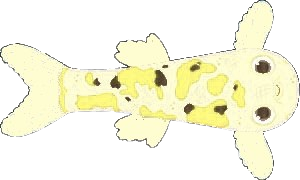
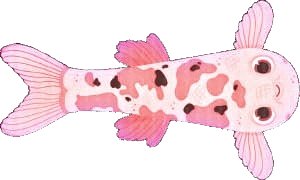
added skins

diff --git a/main.js b/main.js
@@ -70,7 +70,7 @@ function setGlobals() {
     MENU: {
       opacity: 1,
     },
-    playerSkin: localStorage.skin ?? Math.ceil(Math.random() * 11),
+    playerSkin: localStorage.skin ?? Math.ceil(Math.random() * 26),
     state: "menu",
     firstLoop: true,
     bufferLoop: true,
@@ -554,6 +554,21 @@ function loadAssets(cb) {
     { name: "skin-9", src: "assets/skins/skin9.png" },
     { name: "skin-10", src: "assets/skins/skin10.png" },
     { name: "skin-11", src: "assets/skins/skin11.png" },
+    { name: "skin-12", src: "assets/skins/skin12.png" },
+    { name: "skin-13", src: "assets/skins/skin13.png" },
+    { name: "skin-14", src: "assets/skins/skin14.png" },
+    { name: "skin-15", src: "assets/skins/skin15.png" },
+    { name: "skin-16", src: "assets/skins/skin16.png" },
+    { name: "skin-17", src: "assets/skins/skin17.png" },
+    { name: "skin-18", src: "assets/skins/skin18.png" },
+    { name: "skin-19", src: "assets/skins/skin19.png" },
+    { name: "skin-20", src: "assets/skins/skin20.png" },
+    { name: "skin-21", src: "assets/skins/skin21.png" },
+    { name: "skin-22", src: "assets/skins/skin22.png" },
+    { name: "skin-23", src: "assets/skins/skin23.png" },
+    { name: "skin-24", src: "assets/skins/skin24.png" },
+    { name: "skin-25", src: "assets/skins/skin25.png" },
+    { name: "skin-26", src: "assets/skins/skin26.png" },
     { name: "logo", src: "assets/title_text.png" },
     { name: "logoSmall", src: "assets/title_text.png" },
     { name: "soundOn", src: "assets/music_on.png" },

diff --git a/bindings.js b/bindings.js
@@ -278,13 +278,13 @@ changeSkinElement.addEventListener("click", function (e) {
 });
 
 document.querySelector(".prev-skin").addEventListener("click", function (e) {
-  GAME.playerSkin = ((GAME.playerSkin - 2 + 11) % 11) + 1;
+  GAME.playerSkin = ((GAME.playerSkin - 2 + 26) % 26) + 1;
 
   drawChangeSkin();
 });
 
 document.querySelector(".next-skin").addEventListener("click", function (e) {
-  GAME.playerSkin = (GAME.playerSkin % 11) + 1;
+  GAME.playerSkin = (GAME.playerSkin % 26) + 1;
 
   drawChangeSkin();
 });

diff --git a/fish.js b/fish.js
@@ -67,7 +67,7 @@ function Fish(AI, x, y, size, dir, frame, skin) {
   this.dying = false; // death animation
   this.dead = false; // remove this entity
   this.deathParticles = [];
-  this.skin = skin ?? Math.ceil(Math.random() * 11);
+  this.skin = skin ?? Math.ceil(Math.random() * 26);
   this.bodyColor = randCol.rgb();
   this.bodyOutline = randCol.rgb();
   this.name = AI ? getRandomFishName() : "";
